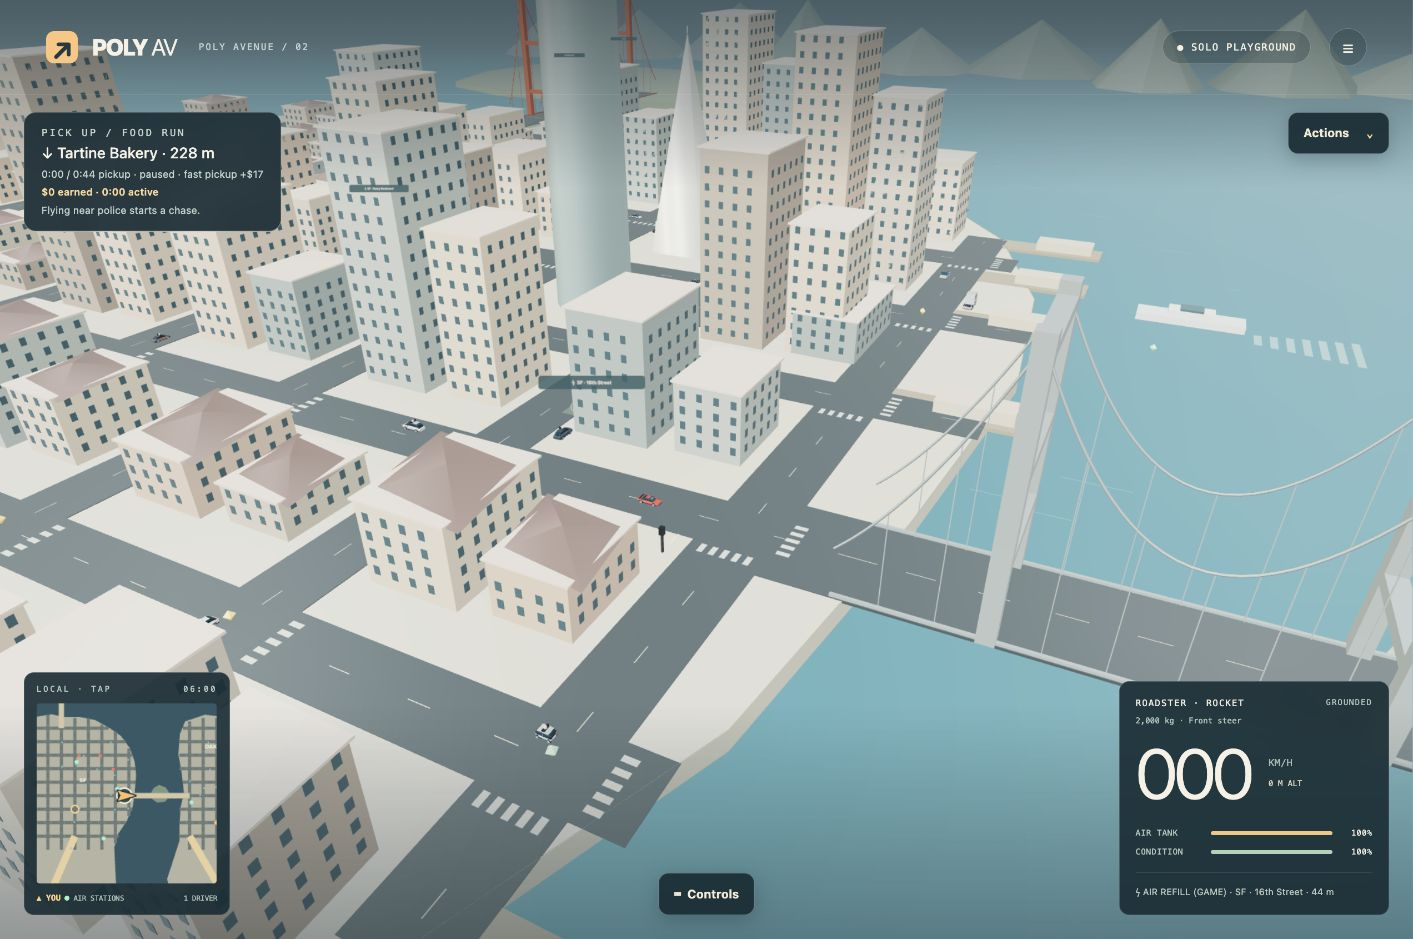
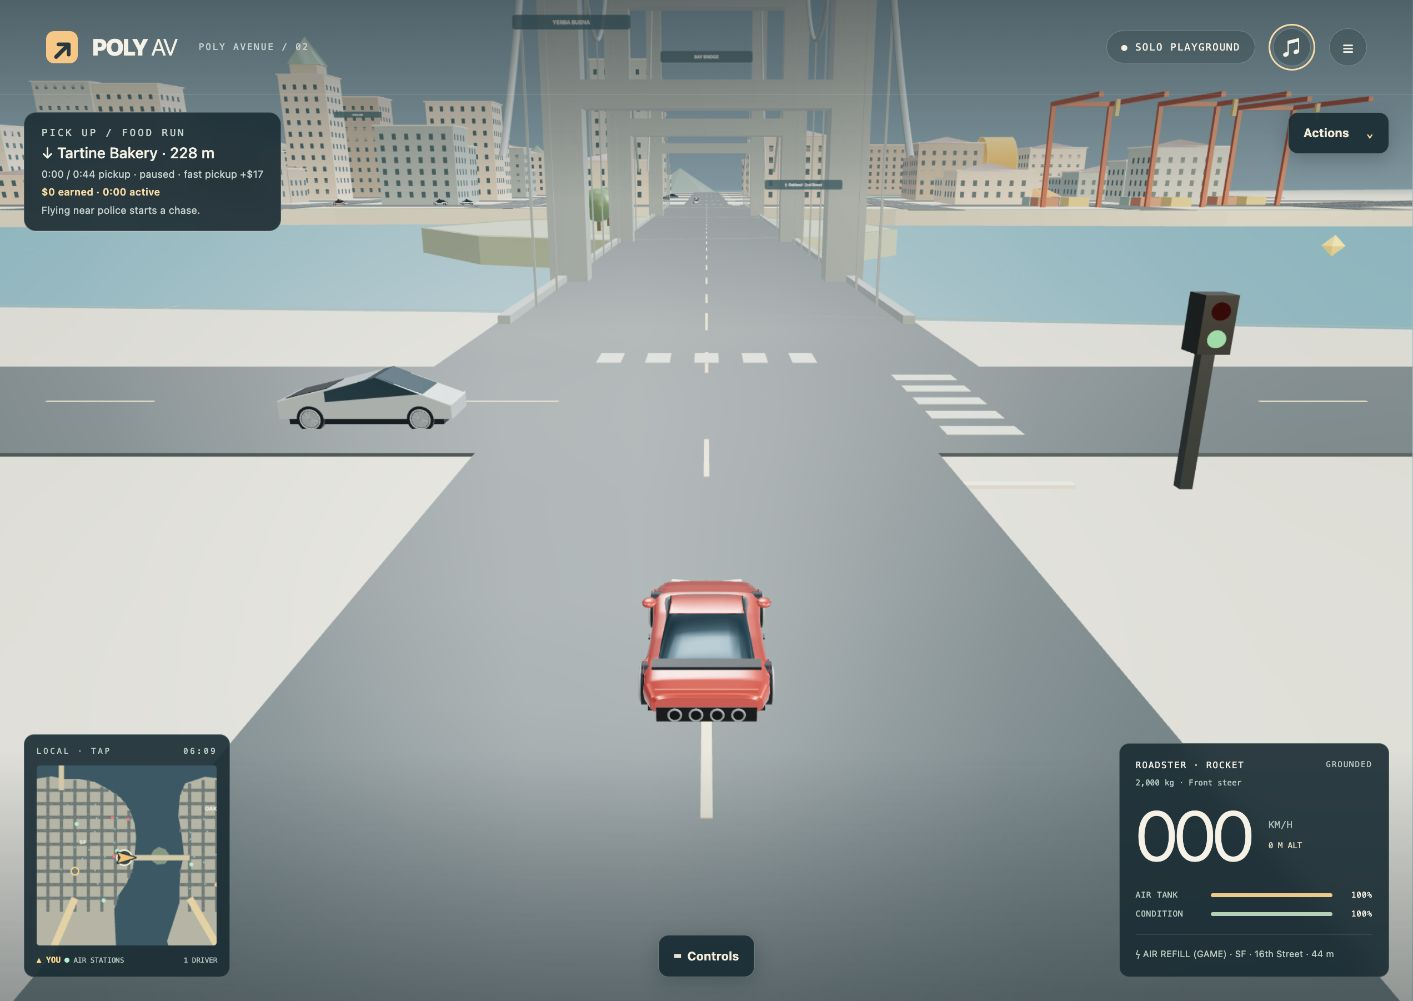
Integrate sound controls and verify responsive HUD

diff --git a/src/style.css b/src/style.css
@@ -97,3 +97,4 @@ button:focus-visible,a:focus-visible,select:focus-visible,input:focus-visible{ou
 .sound-actions{display:flex;gap:10px}.sound-actions button{flex:1;min-height:44px;border:1px solid #ffffff45;border-radius:6px;background:#ffffff0c;font-size:13px}.sound-actions button[aria-pressed=true]{background:#ffc77f;color:#21373b}
 @media(pointer:coarse),(max-width:800px){.top-actions{gap:6px}.sound-button{width:44px;height:44px}}
 @media(max-height:550px){.sound-dialog{padding:16px;max-height:94dvh}.sound-sliders{gap:8px;margin:10px 0}.sound-dialog .fleet-intro{margin:6px 0}.sound-actions button{min-height:40px}}
+@media(max-width:360px){.topbar{padding:0 10px}.brand{font-size:16px}.brand-icon{margin-right:4px}.top-actions{gap:4px}.pill{font-size:7px;letter-spacing:.4px;padding:6px;white-space:nowrap}.sound-button{width:38px;height:38px}}

diff --git a/docs/DESIGN.md b/docs/DESIGN.md
@@ -72,4 +72,4 @@ Selected hybrid: the road-first desktop concept and pocket-console phone concept
 
 The free [Mobbin explorer](https://mobbin.com/) informed disclosure and grouped-control patterns; deeper app examples required sign-in. [EA SPORTS WRC's PC controls](https://www.ea.com/games/ea-sports-wrc/wrc-24/game-objects/wrc-controls-hub/game-object/driving-controls-pc-keyboard) use Space for handbrake, a useful precedent for this game's Space brake/drift. Generated references: [desktop concept](screenshots/road-first-hud/desktop-concept.png), [phone concept](screenshots/road-first-hud/phone-concept.png). The phone adaptation keeps roll, hover, jump, reverse and brake, which were not all represented in the mock; landscape moves the flight row to the center so both thumb zones remain clear.
 
-Local Chrome captures, solo Roadster, 2026-10-17: [desktop](screenshots/road-first-hud/desktop.png) at 1413×939, [portrait](screenshots/road-first-hud/phone-portrait.png) at 390×844, and [landscape](screenshots/road-first-hud/phone-landscape.png) at 844×390 (phone sizes emulated). Generated references are compositional guides, not depictions of the exact map or current vehicle art.
+Local Chrome captures, solo Roadster, 2026-10-17: [desktop](screenshots/road-first-hud/desktop.png) at 1413×1001, [portrait](screenshots/road-first-hud/phone-portrait.png) at 390×844, and [landscape](screenshots/road-first-hud/phone-landscape.png) at 844×390 (phone sizes emulated). Generated references are compositional guides, not depictions of the exact map or current vehicle art.

diff --git a/docs/VERIFICATION.md b/docs/VERIFICATION.md
@@ -155,4 +155,4 @@ In the isolated release worktree, `pnpm run ci` passed; the two-client Wrangler 
 
 ## 2026-10-17 · Road-first HUD
 
-In the isolated worktree, `pnpm test` passed 105 tests, including keyboard focus/Tab and Space brake coverage; `pnpm build` passed. Chrome local solo play was inspected at desktop and emulated 390×844 portrait and 844×390 landscape. The action drawer exposed all eight actions, fleet opened, and both drawers closed with Escape; a citation interrupted and closed the guide and acknowledgement resumed play. Emulated touch acceleration reached 51 km/h; a jump used air and changed Drive to Flip and steering labels to Bank. No physical phone or multiplayer-specific behavior was verified for this HUD change. Screenshots and concept comparison are linked from DESIGN.md.
+In the isolated worktree, `pnpm test` passed 112 tests after integrating the sound-settings change, including keyboard focus/Tab and Space brake coverage; `pnpm build` passed. Chrome local solo play was inspected at desktop and emulated 390×844 portrait and 844×390 landscape. The action drawer exposed all eight actions, fleet opened, both drawers closed with Escape, and sound settings opened from the action drawer; a citation interrupted and closed the guide and acknowledgement resumed play. Emulated touch acceleration reached 51 km/h; a jump used air and changed Drive to Flip and steering labels to Bank. No physical phone or multiplayer-specific behavior was verified for this HUD change. Screenshots and concept comparison are linked from DESIGN.md.
